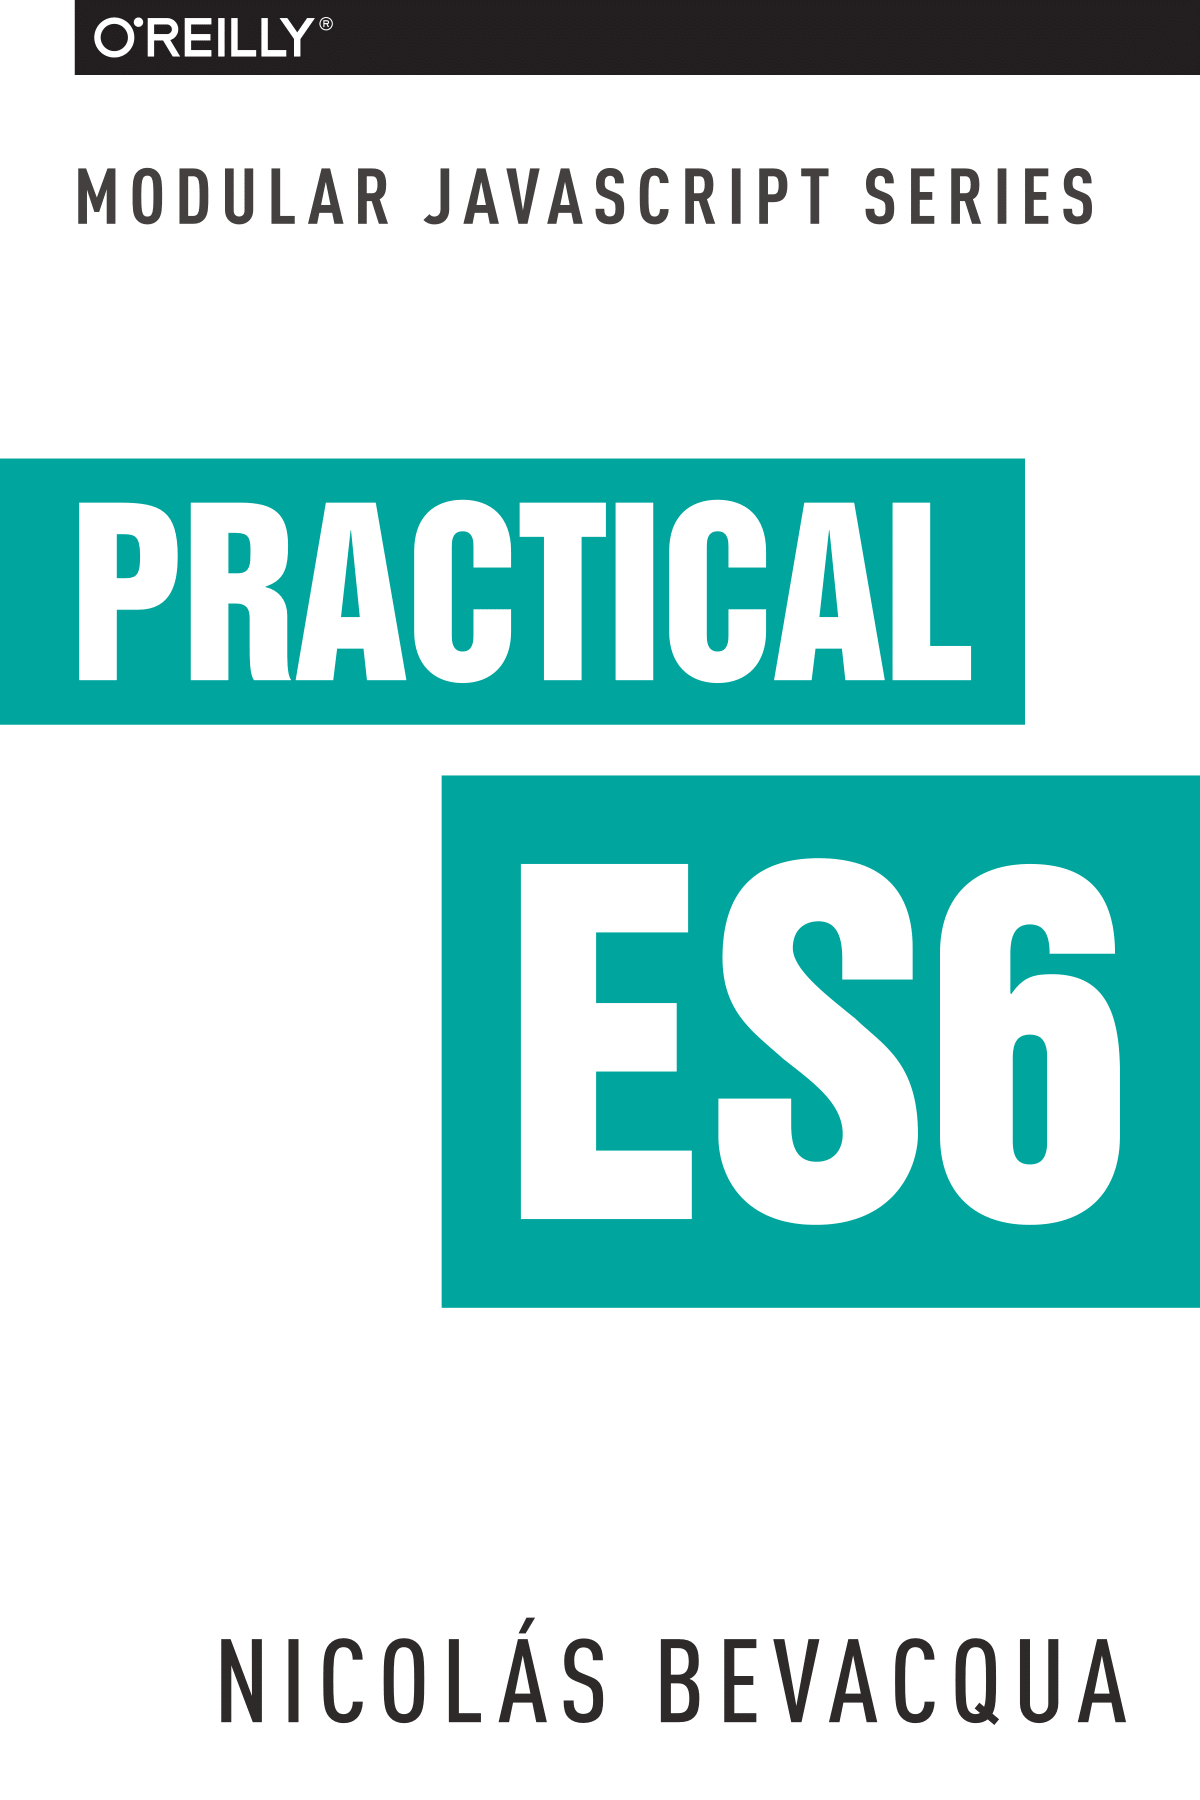
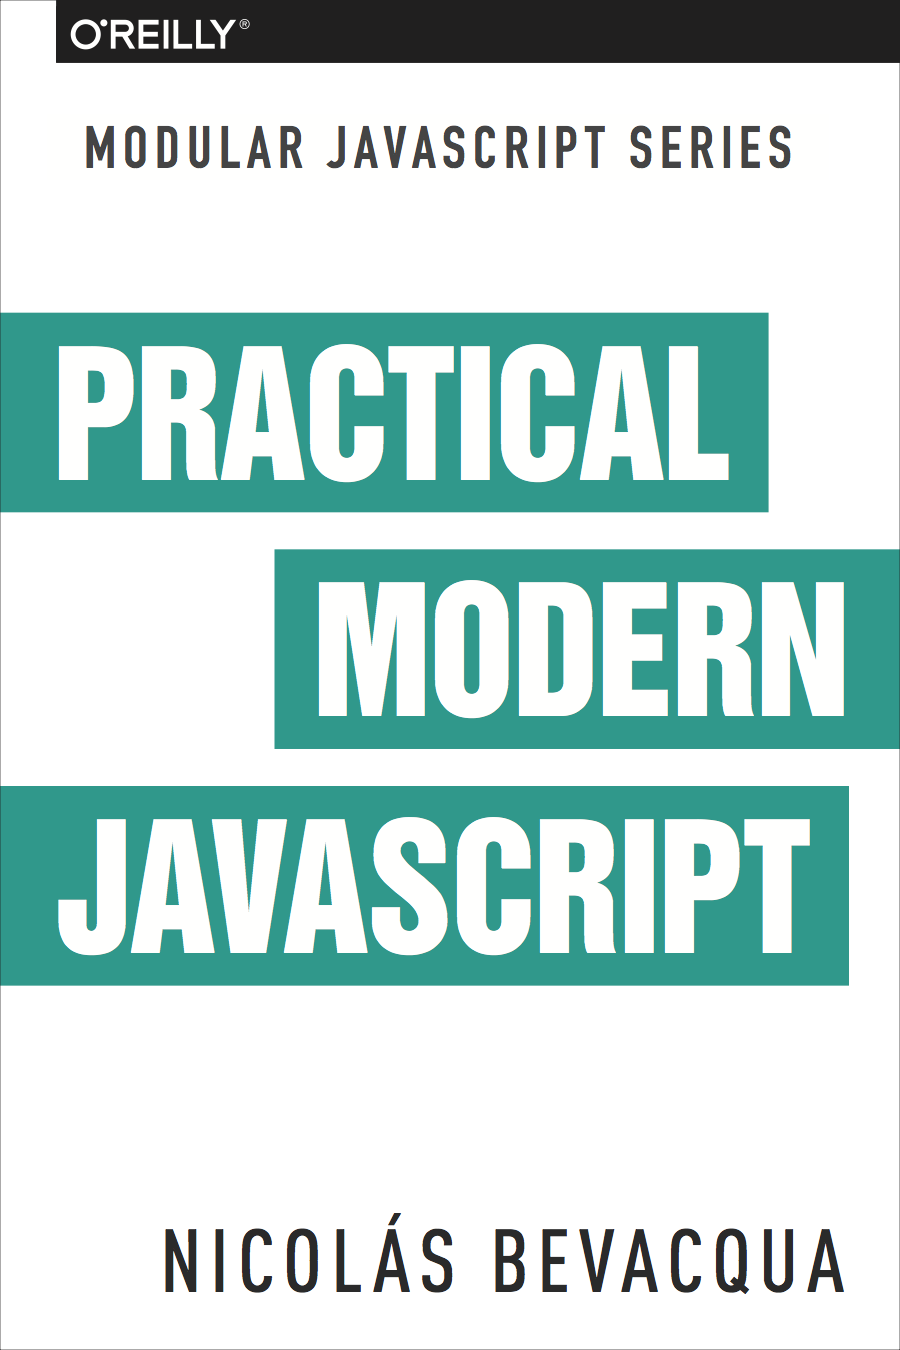
renamed as Practical Modern JavaScript: Dive into ES6 and the future of JavaScript

diff --git a/readme.md b/readme.md
@@ -1,12 +1,12 @@
 [![The Modular JavaScript book series glowing over the desktop of an eager learner.][cover]][coverlink]
 
-# Practical ES6
+# Practical Modern JavaScript
 
-> A Practical Dive into ES6 and Maintainable JavaScript Modules 🏊
+> Dive into ES6 and the future of JavaScript 🏊
 
-[<img align='right' src='https://i.imgur.com/721YHrg.png' />][campaign]
+[<img align='right' src='https://i.imgur.com/GbTcDuV.png' />][campaign]
 
-Modular JavaScript is a book series with the mission of improving our collective understanding of writing robust, well-tested, modular JavaScript code. Practical ES6 is the first book in the series, and it discusses ES6 features in detail. Practical ES6 includes hundreds of real-world use cases for the new language features, as well as detailed explanations of what works and what hasn’t when it comes to leveraging ES6 in the wild.
+Modular JavaScript is a book series with the mission of improving our collective understanding of writing robust, well-tested, modular JavaScript code. Practical Modern JavaScript is the first book in the series, and it discusses ES6 features in detail. Practical Modern JavaScript includes hundreds of real-world use cases for the new language features, as well as detailed explanations of what works and what hasn’t when it comes to leveraging ES6 in the wild.
 
 🗞 **Start** with the [book launch announcement][announcement] on *Pony Foo*  
 💳 **Participate** in the [crowdfunding campaign][campaign] on *Indiegogo*  
@@ -18,7 +18,7 @@ Modular JavaScript is a book series with the mission of improving our collective
 
 This book focuses on two aspects of JavaScript development: modularity and ES6 features. You’ll learn how to tackle application development by following a scale-out approach. As pieces of your codebase grow too big, you can break them up into smaller modules.
 
-## Practical ES6 is Free to Read!
+## Practical Modern JavaScript is Free to Read!
 
 The book is publicly available in HTML format and **free forever**. Each book chapter is styled similarly to how Pony Foo blog posts _— such as the [book series launch announcement][announcement] —_ are styled, which makes for a fairly enjoyable read as far as HTML books go.
 
@@ -26,7 +26,7 @@ The book is publicly available in HTML format and **free forever**. Each book ch
 
 *Every book in the series will be distributed in this way.*
 
-> The free-to-read version of Practical ES6 is subject to [the same license][license] as the rest of the content I publish on Pony Foo: [*Creative Commons Attribution-NonCommercial-ShareAlike*][license].
+> The free-to-read version of Practical Modern JavaScript is subject to [the same license][license] as the rest of the content I publish on Pony Foo: [*Creative Commons Attribution-NonCommercial-ShareAlike*][license].
 
 It took me a bit of time but I've managed to get the `git` repository to trigger builds on the O'Reilly build server. The build server then pings back to ponyfoo.com, letting the site know when a build is ready. Lastly, Pony Foo finally downloads the updated HTML files for the web version. Luckily I developed the code in such a way that I will be able to share HTML versions of other books in the series effortlessly.
 
@@ -85,10 +85,10 @@ Nicolás Bevacqua © 2016-2017. Creative Commons. Details at [ponyfoo.com/licens
 [license]: https://ponyfoo.com/license "Licensing Terms on Pony Foo"
 [clap]: https://ponyfoo.com/s/modular-javascript-thunderclap "Back the Thunderclap campaign!"
 [tweet]: https://ponyfoo.com/s/modular-javascript-tweet "Send out a tweet promoting the Modular JavaScript launch"
-[announcement]: https://ponyfoo.com/s/modular-javascript-launch "Announcing Practical ES6 and the Modular JavaScript Book Series"
+[announcement]: https://ponyfoo.com/s/modular-javascript-launch "Announcing Practical Modern JavaScript and the Modular JavaScript Book Series"
 [campaign]: https://ponyfoo.com/s/modular-javascript-indiegogo "Indiegogo campaign for Modular JavaScript: A Pragmatic JS Book Series"
-[toc]: https://ponyfoo.com/s/practical-es6-read "Practical ES6: A Practical Dive into ES6 and Maintainable JavaScript Modules"
+[toc]: https://ponyfoo.com/s/practical-es6-read "Practical Modern JavaScript Table of Contents"
 [contrib]: https://ponyfoo.com/s/practical-es6-repo-contrib "mjavascript/practical-es6 on GitHub"
-[er]: https://ponyfoo.com/s/practical-es6-early-release "Modular JavaScript: Practical ES6"
+[er]: https://ponyfoo.com/s/practical-es6-early-release "Modular JavaScript: Practical Modern JavaScript"
 [cover]: https://i.imgur.com/saRiGkb.png
 [coverlink]: https://mjavascript.com "Let’s improve our collective understanding of writing robust, well-tested, modular JavaScript code."

diff --git a/contributing.md b/contributing.md
@@ -1,6 +1,6 @@
 # Interested in Contributing?
 
-Good stuff! Your contributions to Practical ES6 and the Modular JavaScript campaign efforts will be greatly appreciated! 👏
+Good stuff! Your contributions to Practical Modern JavaScript and the Modular JavaScript campaign efforts will be greatly appreciated! 👏
 
 You can help raise the quality bar for my books by helping me fix bugs in code, grammar, or explanations. Feel free to report an issue and let me know! This way, we can minimize the amount of errata we'll have to publish later on and improve the overall quality of the book series.
 
